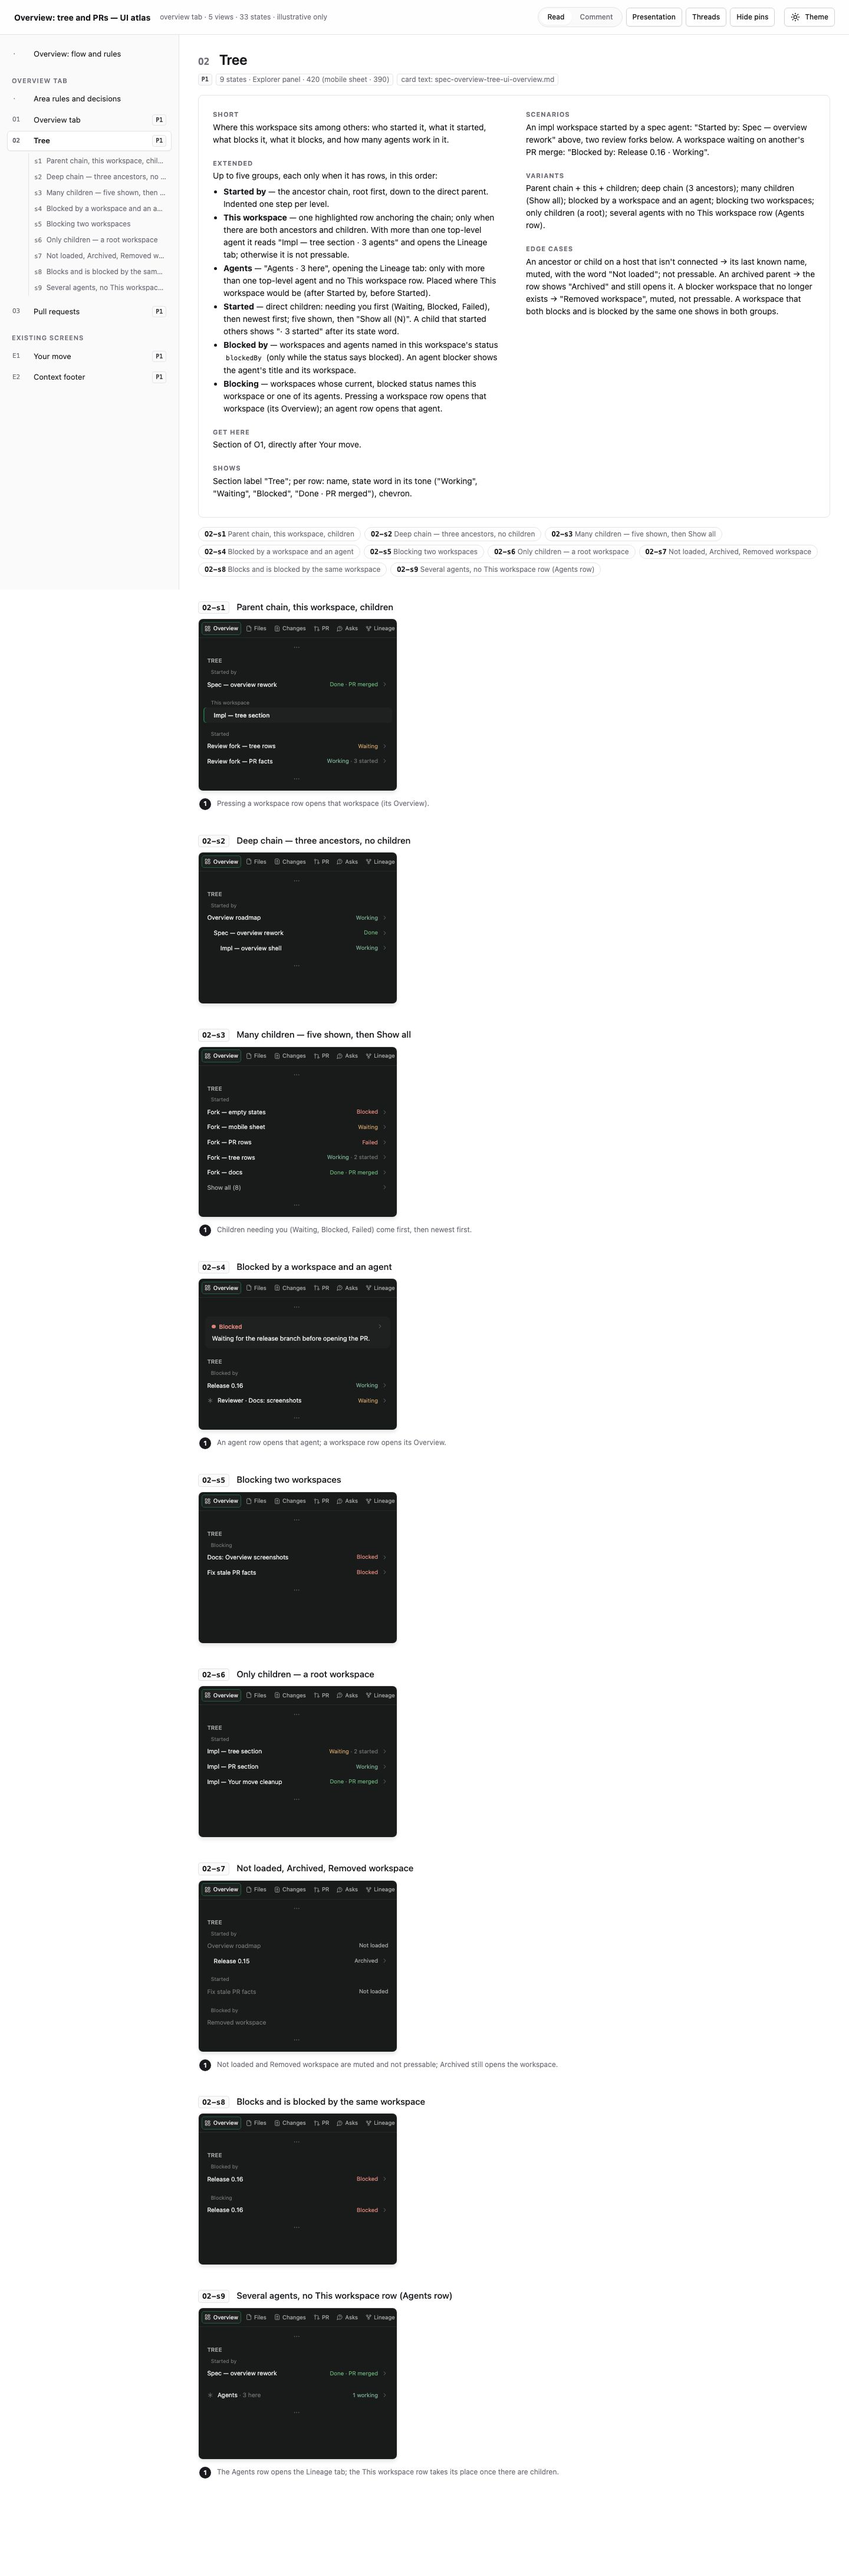
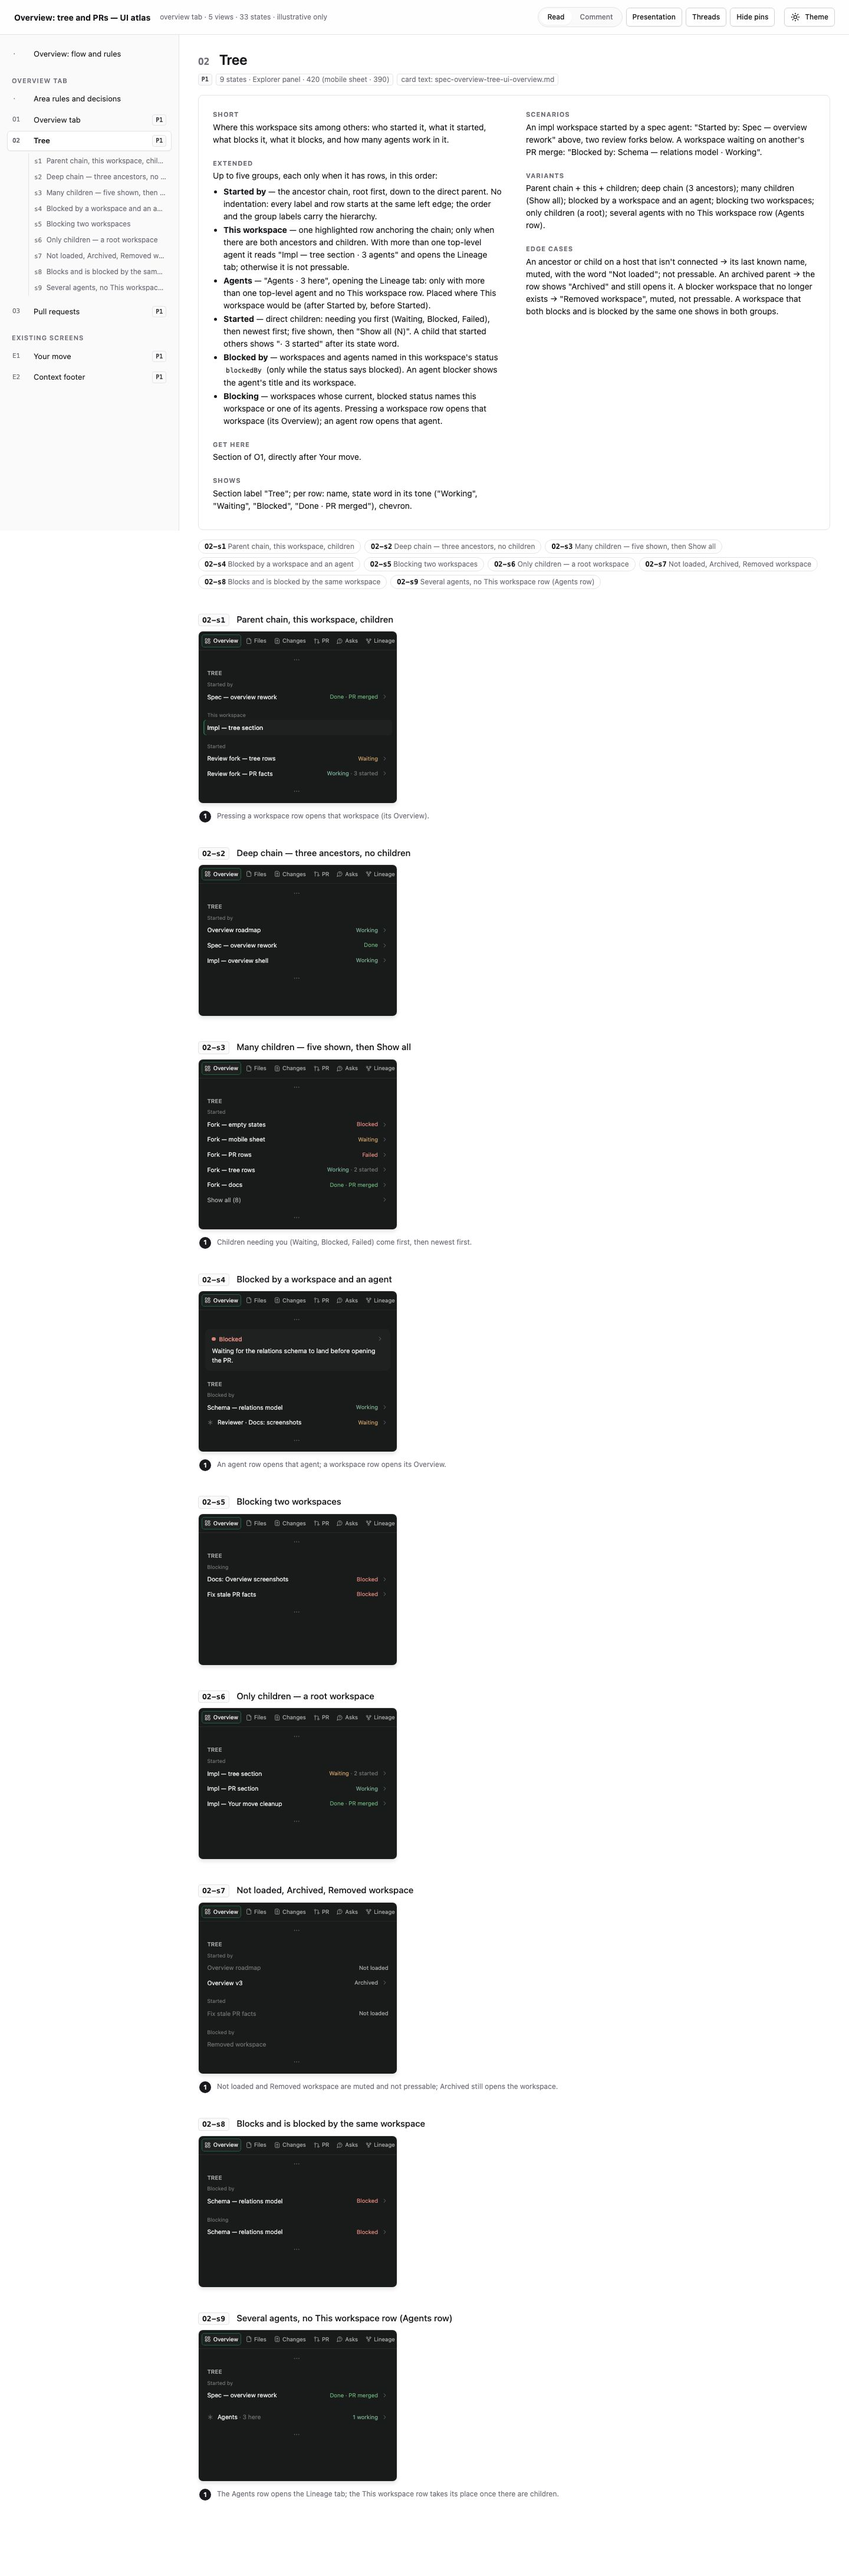
docs(overview): flatten the Tree so labels and rows share one edge

diff --git a/.ai/prototypes/overview-tree/index.html b/.ai/prototypes/overview-tree/index.html
@@ -154,7 +154,7 @@
     <h2><span class="ka-id">O2</span> Tree</h2>
     <div class="ka-tags"><span class="ka-phase ka-phase-P1">P1</span><span class="ka-tag">9 states · Explorer panel · 420 (mobile sheet · 390)</span><a class="ka-tag" href="../../../tasks/spec-overview-tree-ui-overview.md">card text: spec-overview-tree-ui-overview.md</a></div>
   </div>
-  <div class="ka-card"><div class="ka-col"><div class="ka-field"><h4>Short</h4><div class="ka-md"><p>Where this workspace sits among others: who started it, what it started, what blocks it, what it blocks, and how many agents work in it.</p></div></div><div class="ka-field"><h4>Extended</h4><div class="ka-md"><p>Up to five groups, each only when it has rows, in this order:</p><ul><li><b>Started by</b> — the ancestor chain, root first, down to the direct parent. Indented one step per level.</li><li><b>This workspace</b> — one highlighted row anchoring the chain; only when there are both ancestors and children. With more than one top-level agent it reads &quot;Impl — tree section · 3 agents&quot; and opens the Lineage tab; otherwise it is not pressable.</li><li><b>Agents</b> — &quot;Agents · 3 here&quot;, opening the Lineage tab: only with more than one top-level agent and no This workspace row. Placed where This workspace would be (after Started by, before Started).</li><li><b>Started</b> — direct children: needing you first (Waiting, Blocked, Failed), then newest first; five shown, then &quot;Show all (N)&quot;. A child that started others shows &quot;· 3 started&quot; after its state word.</li><li><b>Blocked by</b> — workspaces and agents named in this workspace's status <code>blockedBy</code> (only while the status says blocked). An agent blocker shows the agent's title and its workspace.</li><li><b>Blocking</b> — workspaces whose current, blocked status names this workspace or one of its agents. Pressing a workspace row opens that workspace (its Overview); an agent row opens that agent.</li></ul></div></div><div class="ka-field"><h4>Get here</h4><div class="ka-md"><p>Section of O1, directly after Your move.</p></div></div><div class="ka-field"><h4>Shows</h4><div class="ka-md"><p>Section label &quot;Tree&quot;; per row: name, state word in its tone (&quot;Working&quot;, &quot;Waiting&quot;, &quot;Blocked&quot;, &quot;Done · PR merged&quot;), chevron.</p></div></div></div><div class="ka-col"><div class="ka-field"><h4>Scenarios</h4><div class="ka-md"><p>An impl workspace started by a spec agent: &quot;Started by: Spec — overview rework&quot; above, two review forks below. A workspace waiting on another's PR merge: &quot;Blocked by: Schema — relations model · Working&quot;.</p></div></div><div class="ka-field"><h4>Variants</h4><div class="ka-md"><p>Parent chain + this + children; deep chain (3 ancestors); many children (Show all); blocked by a workspace and an agent; blocking two workspaces; only children (a root); several agents with no This workspace row (Agents row).</p></div></div><div class="ka-field"><h4>Edge cases</h4><div class="ka-md"><p>An ancestor or child on a host that isn't connected → its last known name, muted, with the word &quot;Not loaded&quot;; not pressable. An archived parent → the row shows &quot;Archived&quot; and still opens it. A blocker workspace that no longer exists → &quot;Removed workspace&quot;, muted, not pressable. A workspace that both blocks and is blocked by the same one shows in both groups.</p></div></div></div></div>
+  <div class="ka-card"><div class="ka-col"><div class="ka-field"><h4>Short</h4><div class="ka-md"><p>Where this workspace sits among others: who started it, what it started, what blocks it, what it blocks, and how many agents work in it.</p></div></div><div class="ka-field"><h4>Extended</h4><div class="ka-md"><p>Up to five groups, each only when it has rows, in this order:</p><ul><li><b>Started by</b> — the ancestor chain, root first, down to the direct parent. No indentation: every label and row starts at the same left edge; the order and the group labels carry the hierarchy.</li><li><b>This workspace</b> — one highlighted row anchoring the chain; only when there are both ancestors and children. With more than one top-level agent it reads &quot;Impl — tree section · 3 agents&quot; and opens the Lineage tab; otherwise it is not pressable.</li><li><b>Agents</b> — &quot;Agents · 3 here&quot;, opening the Lineage tab: only with more than one top-level agent and no This workspace row. Placed where This workspace would be (after Started by, before Started).</li><li><b>Started</b> — direct children: needing you first (Waiting, Blocked, Failed), then newest first; five shown, then &quot;Show all (N)&quot;. A child that started others shows &quot;· 3 started&quot; after its state word.</li><li><b>Blocked by</b> — workspaces and agents named in this workspace's status <code>blockedBy</code> (only while the status says blocked). An agent blocker shows the agent's title and its workspace.</li><li><b>Blocking</b> — workspaces whose current, blocked status names this workspace or one of its agents. Pressing a workspace row opens that workspace (its Overview); an agent row opens that agent.</li></ul></div></div><div class="ka-field"><h4>Get here</h4><div class="ka-md"><p>Section of O1, directly after Your move.</p></div></div><div class="ka-field"><h4>Shows</h4><div class="ka-md"><p>Section label &quot;Tree&quot;; per row: name, state word in its tone (&quot;Working&quot;, &quot;Waiting&quot;, &quot;Blocked&quot;, &quot;Done · PR merged&quot;), chevron.</p></div></div></div><div class="ka-col"><div class="ka-field"><h4>Scenarios</h4><div class="ka-md"><p>An impl workspace started by a spec agent: &quot;Started by: Spec — overview rework&quot; above, two review forks below. A workspace waiting on another's PR merge: &quot;Blocked by: Schema — relations model · Working&quot;.</p></div></div><div class="ka-field"><h4>Variants</h4><div class="ka-md"><p>Parent chain + this + children; deep chain (3 ancestors); many children (Show all); blocked by a workspace and an agent; blocking two workspaces; only children (a root); several agents with no This workspace row (Agents row).</p></div></div><div class="ka-field"><h4>Edge cases</h4><div class="ka-md"><p>An ancestor or child on a host that isn't connected → its last known name, muted, with the word &quot;Not loaded&quot;; not pressable. An archived parent → the row shows &quot;Archived&quot; and still opens it. A blocker workspace that no longer exists → &quot;Removed workspace&quot;, muted, not pressable. A workspace that both blocks and is blocked by the same one shows in both groups.</p></div></div></div></div>
   <nav class="ka-state-index" aria-label="O2 states"><a href="#O2-s1"><code>O2-s1</code> Parent chain, this workspace, children</a><a href="#O2-s2"><code>O2-s2</code> Deep chain — three ancestors, no children</a><a href="#O2-s3"><code>O2-s3</code> Many children — five shown, then Show all</a><a href="#O2-s4"><code>O2-s4</code> Blocked by a workspace and an agent</a><a href="#O2-s5"><code>O2-s5</code> Blocking two workspaces</a><a href="#O2-s6"><code>O2-s6</code> Only children — a root workspace</a><a href="#O2-s7"><code>O2-s7</code> Not loaded, Archived, Removed workspace</a><a href="#O2-s8"><code>O2-s8</code> Blocks and is blocked by the same workspace</a><a href="#O2-s9"><code>O2-s9</code> Several agents, no This workspace row (Agents row)</a></nav>
   <figure class="ka-state" id="O2-s1">
     <figcaption><a class="ka-sid" href="#O2-s1">O2-s1</a><span>Parent chain, this workspace, children</span></figcaption>

diff --git a/.ai/prototypes/overview-tree/screens.css b/.ai/prototypes/overview-tree/screens.css
@@ -541,8 +541,8 @@
 /* rows (tree, PRs): one line each */
 .ot-grp { display: flex; flex-direction: column; }
 .ot-grp + .ot-grp { margin-top: 8px; }
-.ot-grp-label { font-size: 11px; color: var(--app-fg-xmuted); padding: 2px 8px; }
-.ot-row { display: flex; align-items: center; gap: 8px; min-height: 32px; padding: 4px 8px 4px calc(8px + var(--lv, 0) * 14px); margin: 0 -8px; border-radius: 6px; font-size: 13px; }
+.ot-grp-label { font-size: 11px; color: var(--app-fg-xmuted); padding: 2px 0; }
+.ot-row { display: flex; align-items: center; gap: 8px; min-height: 32px; padding: 4px 8px; margin: 0 -8px; border-radius: 6px; font-size: 13px; }
 .ot-row:hover { background: var(--app-hl); }
 .ot-row.is-here { background: var(--app-surface1); box-shadow: inset 2px 0 0 var(--app-accent); font-weight: 500; }
 .ot-row.is-off { color: var(--app-fg-xmuted); }

diff --git a/tasks/spec-overview-tree-ui-overview.md b/tasks/spec-overview-tree-ui-overview.md
@@ -40,8 +40,8 @@ Map: [spec-overview-tree-ui-map.md](./spec-overview-tree-ui-map.md). Spec: [spec
 - **Short.** Where this workspace sits among others: who started it, what it started, what blocks it,
   what it blocks, and how many agents work in it.
 - **Extended.** Up to five groups, each only when it has rows, in this order:
-  - **Started by** — the ancestor chain, root first, down to the direct parent. Indented one step per
-    level.
+  - **Started by** — the ancestor chain, root first, down to the direct parent. No indentation: every label and row
+    starts at the same left edge; the order and the group labels carry the hierarchy.
   - **This workspace** — one highlighted row anchoring the chain; only when there are both ancestors
     and children. With more than one top-level agent it reads "Impl — tree section · 3 agents" and
     opens the Lineage tab; otherwise it is not pressable.
